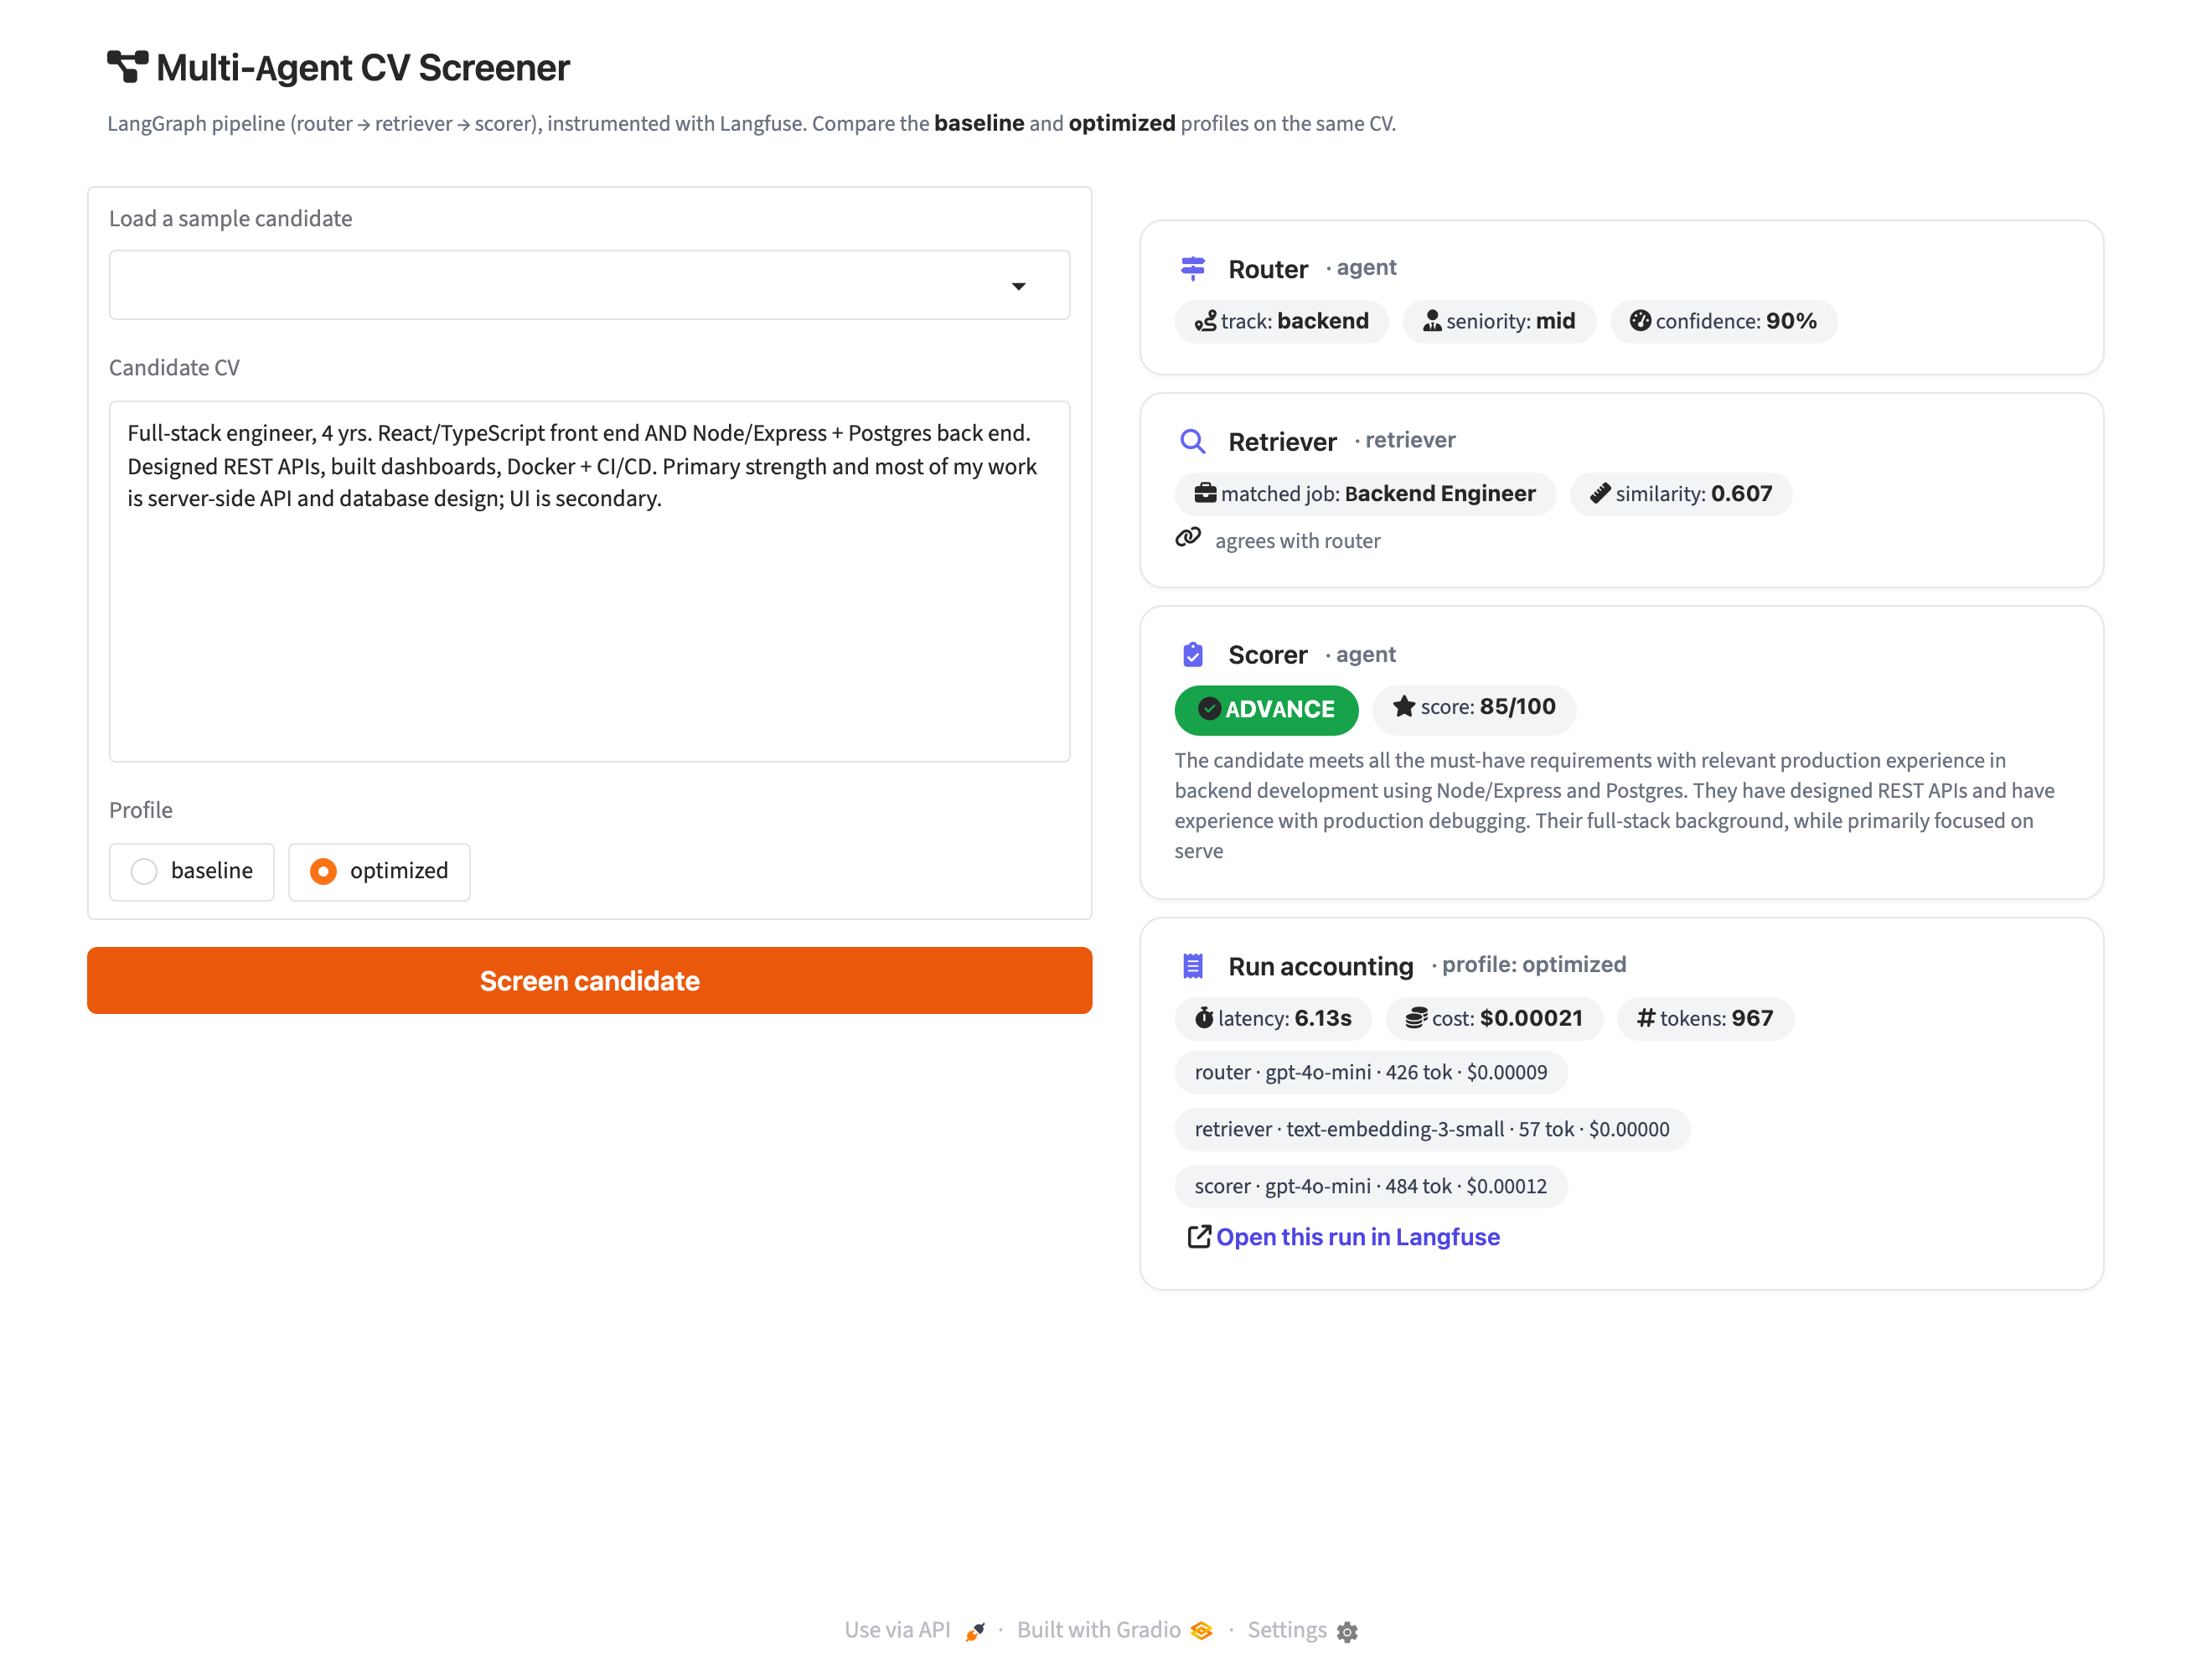
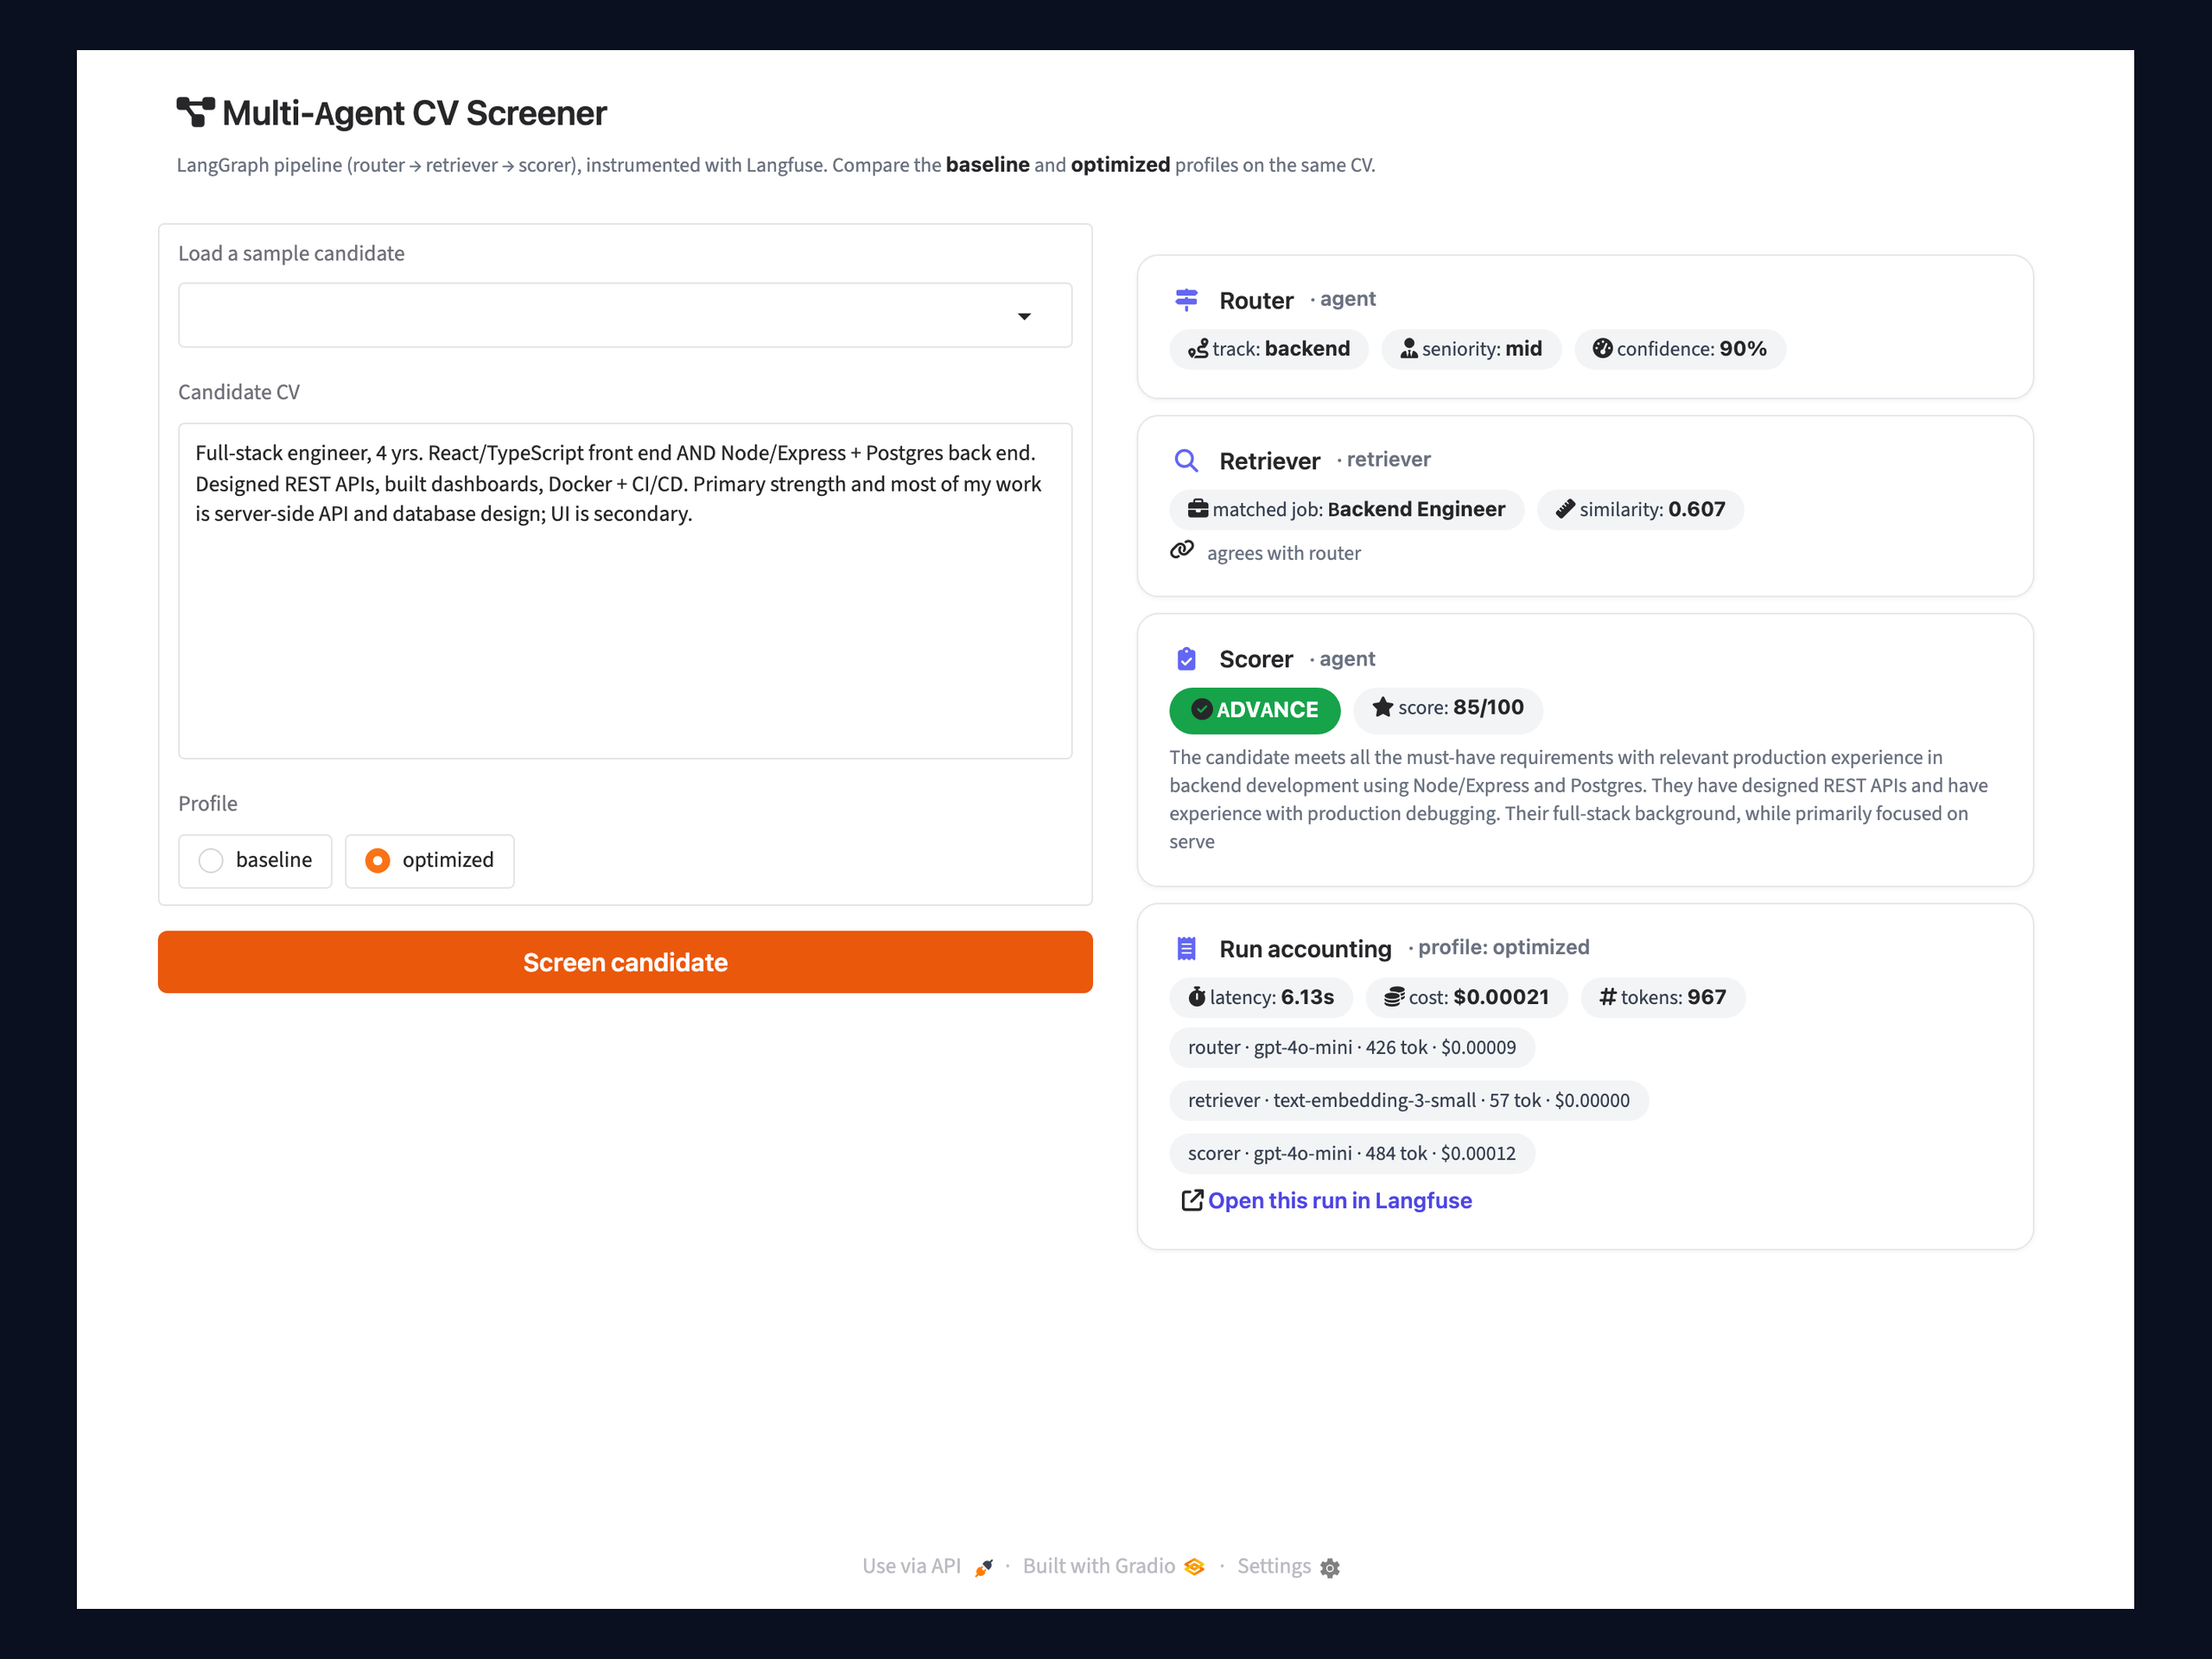
Reframe gallery images to uniform 4:3 so Upwork crop frame fits them

diff --git a/assets/make_gallery.py b/assets/make_gallery.py
@@ -1,0 +1,65 @@
+"""Re-frame every gallery graphic onto a uniform 4:3 canvas with padding.
+
+Upwork's gallery crop frame is ~4:3, so wide images get their edges cut off.
+This composites each source graphic, scaled to fit, centered on a 4:3 brand
+canvas — so nothing important sits near an edge and the crop captures it all.
+
+Output: upwork/01..07 (the files you actually upload). Sources stay in assets/.
+"""
+from __future__ import annotations
+
+from pathlib import Path
+
+from PIL import Image
+
+ROOT = Path(__file__).resolve().parent.parent
+A = ROOT / "assets"
+U = ROOT / "upwork"
+
+BG = (11, 16, 32)          # #0b1020 brand background
+CANVAS = (2560, 1920)      # 4:3, < 4000px
+PAD = 0.94                 # content fills 94% of each axis at most
+
+# source (in assets/) -> output gallery filename (in display order).
+# 01-cover.png is left untouched: it's already 4:3 full-bleed and fits the
+# crop frame exactly.
+ITEMS = [
+    ("workflow.png", "02-architecture.png"),
+    ("demo-optimized.png", "03-live-demo.png"),
+    ("07-trace-tree.png", "04-trace-tree.png"),
+    ("metrics.png", "05-results.png"),
+    ("05-comparison.png", "06-comparison.png"),
+    ("06-code.png", "07-code.png"),
+]
+
+
+def reframe(src: Path, dst: Path):
+    im = Image.open(src).convert("RGBA")
+    canvas = Image.new("RGBA", CANVAS, BG + (255,))
+    max_w, max_h = int(CANVAS[0] * PAD), int(CANVAS[1] * PAD)
+    scale = min(max_w / im.width, max_h / im.height)
+    # never upscale tiny sources past 1x beyond a sensible cap
+    scale = min(scale, 2.2)
+    new = im.resize((max(1, int(im.width * scale)), max(1, int(im.height * scale))), Image.LANCZOS)
+    x = (CANVAS[0] - new.width) // 2
+    y = (CANVAS[1] - new.height) // 2
+    canvas.paste(new, (x, y), new)
+    canvas.convert("RGB").save(dst, "PNG")
+    print(f"  {dst.name:24} {CANVAS[0]}x{CANVAS[1]}  ({dst.stat().st_size/1e6:.2f}MB)")
+
+
+def main():
+    # clear old numbered gallery pngs (02-07) but keep 01-cover.png untouched
+    for f in U.glob("0[2-7]-*.png"):
+        f.unlink()
+    print("re-framing to 4:3:")
+    for src_name, out_name in ITEMS:
+        src = (A / src_name).resolve()
+        if not src.exists():
+            print(f"  skip {out_name}: missing {src}")
+            continue
+        reframe(src, U / out_name)
+
+
+if __name__ == "__main__":
+    main()